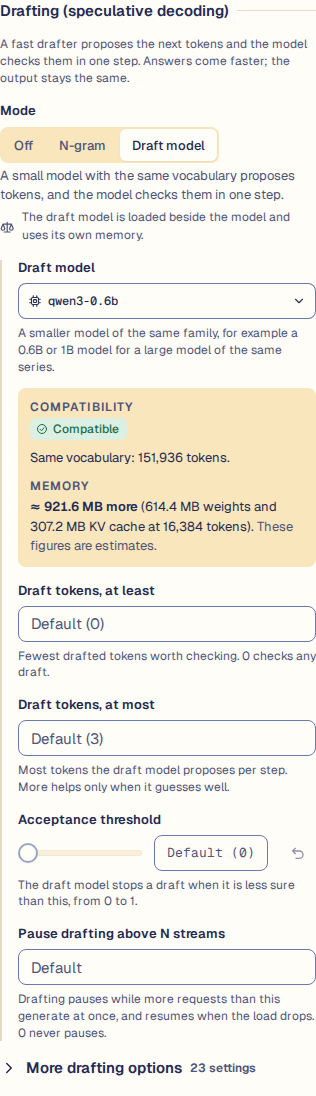
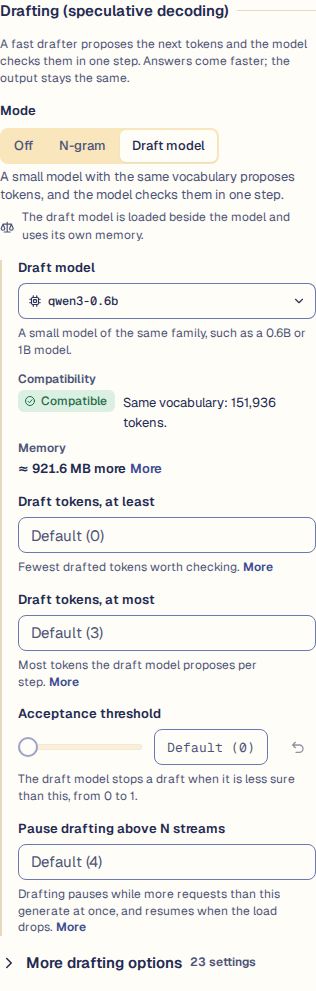
feat(ui): show one line per runtime hint and draft fact
With a draft model picked, the Drafting section showed an inset panel
with two headings and up to three sentences for the compatibility and
the memory, and each field had a two-sentence hint.

Each runtime tuning hint now shows its first sentence; "More" opens
the rest in place (a native disclosure). The compatibility and the
memory of a draft model are one line each: the chip and the first
sentence, and "≈ 922 MB more" with the weights and KV cache split
under "More". The draft model hint is one short sentence. Every locale
has the new words.

The sentence split does not cut at a decimal or an abbreviation and
handles CJK full stops; a unit test covers it.

Assisted-by: Claude:claude-sonnet-5-5 playwright

diff --git a/core/http/react-ui/src/components/models/engine/DraftingSection.jsx b/core/http/react-ui/src/components/models/engine/DraftingSection.jsx
@@ -10,6 +10,8 @@ import {
 } from '../../../utils/drafting'
 // eslint-disable-next-line no-unused-vars
 import EngineField from './EngineField'
+// eslint-disable-next-line no-unused-vars
+import MoreText from './MoreText'
 
 // The picker row of a draft file that is not an installed model.
 const FILE_ROW = '__file'
@@ -236,10 +238,10 @@ function DraftPicker({ t, engine, read, current, candidates, onPick, error, read
           describedBy="rt-draft-model-hint"
           testId="rt-draft-model"
         />
-        <p className="dk-hint rt-field__hint" id="rt-draft-model-hint">
+        <div className="dk-hint rt-field__hint" id="rt-draft-model-hint">
           <code className="rt-flag rt-flag--hint">draft_model</code>
-          <span>{t('engineSettings.drafting.picker.hint')}</span>
-        </p>
+          <MoreText text={t('engineSettings.drafting.picker.hint')} />
+        </div>
       </div>
 
       {candidates.status === 'error' && (
@@ -257,28 +259,32 @@ function DraftPicker({ t, engine, read, current, candidates, onPick, error, read
       {(current || unmatched) && (
         <dl className="rt-draft__facts" data-testid="rt-draft-facts">
           <div className="rt-draft__fact">
-            <dt className="dk-eyebrow">{t('engineSettings.drafting.fit.title')}</dt>
+            <dt>{t('engineSettings.drafting.fit.title')}</dt>
             <dd data-testid="rt-draft-fit">
-              {unmatched && <span className="text-note">{t('engineSettings.drafting.fit.unmatched')}</span>}
+              {unmatched && <MoreText text={t('engineSettings.drafting.fit.unmatched')} />}
               {estimating && !fit && <span className="text-note">{t('engineSettings.quick.estimating')}</span>}
               {fit && <FitWords t={t} fit={fit} />}
             </dd>
           </div>
           <div className="rt-draft__fact">
-            <dt className="dk-eyebrow">{t('engineSettings.drafting.memory.title')}</dt>
+            <dt>{t('engineSettings.drafting.memory.title')}</dt>
             <dd data-testid="rt-draft-memory">
-              {unmatched && <span className="text-note">{t('engineSettings.drafting.memory.unmatched')}</span>}
+              {unmatched && <MoreText text={t('engineSettings.drafting.memory.unmatched')} />}
               {estimating && !mem && <span className="text-note">{t('engineSettings.quick.estimating')}</span>}
               {mem && (
-                <span>
-                  <strong className="rt-draft__size">{t('engineSettings.drafting.memory.total', { size: mem.total })}</strong>
-                  {' '}
-                  {mem.weights && mem.kv && mem.context
-                    ? t('engineSettings.drafting.memory.split', { weights: mem.weights, kv: mem.kv, context: mem.context.toLocaleString() })
-                    : null}
-                  {' '}
-                  <span className="text-note">{mem.approximate ? t('engineSettings.quick.approximate') : t('engineSettings.quick.estimate')}</span>
-                </span>
+                <details className="rt-more rt-more--fold">
+                  <summary className="rt-more__summary">
+                    <strong className="rt-draft__size">{t('engineSettings.drafting.memory.total', { size: mem.total })}</strong>
+                    <span className="rt-more__mark">{t('engineSettings.more')}</span>
+                  </summary>
+                  <span className="rt-more__rest">
+                    {mem.weights && mem.kv && mem.context
+                      ? t('engineSettings.drafting.memory.split', { weights: mem.weights, kv: mem.kv, context: mem.context.toLocaleString() })
+                      : null}
+                    {' '}
+                    {mem.approximate ? t('engineSettings.quick.approximate') : t('engineSettings.quick.estimate')}
+                  </span>
+                </details>
               )}
               {current && !estimating && !mem && <span className="text-note">{t('engineSettings.drafting.memory.none')}</span>}
             </dd>
@@ -295,7 +301,7 @@ function FitWords({ t, fit }) {
     return (
       <span className="rt-draft__fit">
         <StatusChip tone="ok" testId="rt-draft-fit-chip">{t('engineSettings.drafting.fit.ok')}</StatusChip>
-        <span>{t('engineSettings.drafting.fit.okText', { tokens: fit.vocab.toLocaleString() })}</span>
+        <MoreText text={t('engineSettings.drafting.fit.okText', { tokens: fit.vocab.toLocaleString() })} />
       </span>
     )
   }
@@ -303,7 +309,7 @@ function FitWords({ t, fit }) {
     return (
       <span className="rt-draft__fit">
         <StatusChip tone="error" testId="rt-draft-fit-chip">{t('engineSettings.drafting.fit.mismatch')}</StatusChip>
-        <span>{t('engineSettings.drafting.fit.mismatchText', { main: fit.main.toLocaleString(), draft: fit.draft.toLocaleString() })}</span>
+        <MoreText text={t('engineSettings.drafting.fit.mismatchText', { main: fit.main.toLocaleString(), draft: fit.draft.toLocaleString() })} />
       </span>
     )
   }
@@ -311,7 +317,7 @@ function FitWords({ t, fit }) {
     return (
       <span className="rt-draft__fit">
         <StatusChip tone="idle" testId="rt-draft-fit-chip">{t('engineSettings.drafting.fit.family')}</StatusChip>
-        <span>{t('engineSettings.drafting.fit.familyText', { family: fit.architecture })}</span>
+        <MoreText text={t('engineSettings.drafting.fit.familyText', { family: fit.architecture })} />
       </span>
     )
   }

diff --git a/core/http/react-ui/src/components/models/engine/engine-settings.css b/core/http/react-ui/src/components/models/engine/engine-settings.css
@@ -173,6 +173,17 @@
   .rt-quick__row { grid-template-columns: minmax(0, 1fr); }
 }
 
+/* A text that shows its first sentence; the rest opens on a click. */
+.rt-more { min-width: 0; }
+.rt-more--fold > .rt-more__summary { display: inline; cursor: pointer; list-style: none; }
+.rt-more--fold > .rt-more__summary::-webkit-details-marker { display: none; }
+.rt-more__summary > * + * { margin-left: var(--dk-space-1); }
+.rt-more__mark { color: var(--dk-accent-text); font-weight: var(--dk-weight-semibold); white-space: nowrap; }
+.rt-more--fold[open] > .rt-more__summary .rt-more__mark { display: none; }
+.rt-more__summary:hover .rt-more__mark { text-decoration: underline; }
+.rt-more__rest::before { content: " "; }
+.rt-field__hint > .rt-more { flex: 1 1 100%; }
+
 /* A collapsed group: rarely used or risky settings behind a disclosure. */
 .rt-group--fold { padding-bottom: 0; }
 .rt-group__summary { display: flex; align-items: center; gap: var(--dk-space-2); cursor: pointer; list-style: none; }
@@ -194,11 +205,14 @@
 .rt-draft__note-icon { flex: none; align-self: center; color: var(--dk-muted); }
 .rt-draft__model { display: grid; gap: var(--dk-space-3); min-width: 0; }
 .rt-draft__model > .rt-field { max-width: 480px; }
-.rt-draft__facts { display: grid; gap: var(--dk-space-3); margin: 0; padding: var(--dk-space-3); border-radius: var(--dk-radius-2); background: var(--dk-inset); }
-.rt-draft__fact { display: grid; gap: var(--dk-space-1); }
+.rt-draft__facts { display: grid; gap: var(--dk-space-2); margin: 0; }
+/* One fact per line: a short label, then the value. */
+.rt-draft__fact { display: grid; grid-template-columns: 7rem minmax(0, 1fr); align-items: baseline; gap: var(--dk-space-3); }
+.rt-draft__fact dt { font-size: var(--dk-text-12); font-weight: var(--dk-weight-semibold); color: var(--dk-muted); }
 
 .rt-draft__fact dd { margin: 0; min-width: 0; overflow-wrap: anywhere; font-size: var(--dk-text-13); }
-.rt-draft__fit { display: inline-flex; flex-wrap: wrap; align-items: center; gap: var(--dk-space-2); }
+.rt-draft__fit { display: flex; flex-wrap: wrap; align-items: baseline; gap: var(--dk-space-2); min-width: 0; }
+.rt-draft__fit > .rt-more { flex: 1 1 12rem; min-width: 0; }
 .rt-draft__size { font-weight: var(--dk-weight-semibold); font-variant-numeric: tabular-nums; }
 .rt-draft__more { display: grid; gap: var(--dk-space-4); min-width: 0; }
 .rt-draft__more-summary { color: var(--dk-text); font-weight: var(--dk-weight-semibold); }
@@ -206,6 +220,7 @@
 .rt-draft__more-grid { padding-top: var(--dk-space-2); }
 
 @container (max-width: 560px) {
+  .rt-draft__fact { grid-template-columns: minmax(0, 1fr); gap: 2px; }
   .rt-draft__choice { grid-template-columns: minmax(0, 1fr); gap: var(--dk-space-2); }
   .rt-draft__choice .rt-quick__title { line-height: 1.3; }
   .rt-draft__panel { padding-left: var(--dk-space-4); border-left: 2px solid var(--dk-edge); }

diff --git a/core/http/react-ui/src/components/models/engine/EngineRuntimeSection.jsx b/core/http/react-ui/src/components/models/engine/EngineRuntimeSection.jsx
@@ -15,6 +15,8 @@ import {
 import EngineField from './EngineField'
 import { choiceWords, fieldLabel } from './labels'
 // eslint-disable-next-line no-unused-vars
+import MoreText from './MoreText'
+// eslint-disable-next-line no-unused-vars
 import TensorPlacement from './TensorPlacement'
 // eslint-disable-next-line no-unused-vars
 import RawOptions from './RawOptions'
@@ -231,13 +233,14 @@ export default function EngineRuntimeSection({ engine, model, values, onChange, 
                 {c.choices.map(ch => <option key={ch.value} value={ch.value}>{choiceLabel(t, c, ch.value)}</option>)}
               </select>
             </span>
-            <p className="dk-hint rt-field__hint" id={`${id}-hint`}>
+            <div className="dk-hint rt-field__hint" id={`${id}-hint`}>
               {c.flag && <code className="rt-flag rt-flag--hint">{c.flag}</code>}
-              <span>{t(`engineSettings.hints.${c.id}`, { defaultValue: c.doc })}</span>
+              <MoreText text={t(`engineSettings.hints.${c.id}`, { defaultValue: c.doc })} />
               {chosenDoc && (
-                <span data-testid={`${id}-choice-hint`}>{t(`engineSettings.choiceHints.${c.id}.${chosen}`, { defaultValue: chosenDoc })}</span>
+                <MoreText className="rt-field__choice-hint" testId={`${id}-choice-hint`}
+                  text={t(`engineSettings.choiceHints.${c.id}.${chosen}`, { defaultValue: chosenDoc })} />
               )}
-            </p>
+            </div>
           </div>
         )
       })}

diff --git a/core/http/react-ui/src/components/models/engine/MoreText.jsx b/core/http/react-ui/src/components/models/engine/MoreText.jsx
@@ -1,0 +1,24 @@
+import { useTranslation } from 'react-i18next'
+import { firstSentence } from './labels'
+
+// A text that shows its first sentence and keeps the rest one click away,
+// so a field or a fact reads as one line. The disclosure is the native
+// <details>: the first sentence is its summary.
+//
+//   text       the whole text
+//   className  of the outer element
+//   lead       optional node before the text (a chip, a figure)
+//   id, testId
+export default function MoreText({ text, className = '', lead = null, id, testId }) {
+  const { t } = useTranslation('modelEditor')
+  const [first, rest] = firstSentence(text)
+  if (!rest) {
+    return <span className={`rt-more ${className}`.trim()} id={id} data-testid={testId}>{lead}{first}</span>
+  }
+  return (
+    <details className={`rt-more rt-more--fold ${className}`.trim()} id={id} data-testid={testId}>
+      <summary className="rt-more__summary">{lead}<span>{first}</span><span className="rt-more__mark">{t('engineSettings.more')}</span></summary>
+      <span className="rt-more__rest">{rest}</span>
+    </details>
+  )
+}

diff --git a/core/http/react-ui/src/components/models/engine/EngineField.jsx b/core/http/react-ui/src/components/models/engine/EngineField.jsx
@@ -5,6 +5,8 @@ import { Segmented, Slider } from '../../ui'
 import Icon from '../../Icon'
 import { readItem, validate } from '../../../utils/engineSettings'
 import { choiceWords, fieldLabel } from './labels'
+// eslint-disable-next-line no-unused-vars
+import MoreText from './MoreText'
 
 const shown = (v) => (v === undefined || v === null ? '' : String(v))
 
@@ -62,10 +64,10 @@ export default function RuntimeField({ item, values, onWrite, onValidity, readOn
   const hintId = `${id}-hint`
   const errorId = `${id}-error`
   const hint = (
-    <p className="dk-hint rt-field__hint" id={hintId}>
+    <div className="dk-hint rt-field__hint" id={hintId}>
       {item.flag && <code className="rt-flag rt-flag--hint" data-testid={`${id}-flag`}>{item.flag}</code>}
-      {item.doc && <span>{item.doc}</span>}
-    </p>
+      {item.doc && <MoreText text={item.doc} />}
+    </div>
   )
   const describedBy = error ? `${hintId} ${errorId}` : hintId
 

diff --git a/core/http/react-ui/src/components/models/engine/labels.js b/core/http/react-ui/src/components/models/engine/labels.js
@@ -17,3 +17,19 @@ export function choiceWords(t, v) {
   if (v === 'auto') return t('engineSettings.auto')
   return String(v)
 }
+
+// A text cut after its first sentence: [lead, rest], rest '' when there is
+// one sentence. A sentence ends at ". ", "! " or "? " (so "0.6B" does not
+// cut), but not after an abbreviation such as "e.g.", or at "。".
+const ABBREV = /(?:^|\s)(?:e\.g|i\.e|etc|vs|approx)\.$/i
+export function firstSentence(text) {
+  const s = String(text ?? '').trim()
+  const re = /[.!?]\s+(?=\S)/g
+  let m
+  while ((m = re.exec(s))) {
+    const lead = s.slice(0, m.index + 1)
+    if (!ABBREV.test(lead)) return [lead, s.slice(re.lastIndex).trim()]
+  }
+  const cjk = s.match(/^(.*?[。！？])(.+)$/su)
+  return cjk ? [cjk[1], cjk[2].trim()] : [s, '']
+}

diff --git a/docs/content/models/engine-settings.md b/docs/content/models/engine-settings.md
@@ -276,8 +276,8 @@ the **Interactive** tab has a **Runtime tuning** section with the badge
   edit writes the main name in its place. A test reads the option names that
   `backend/cpp/llama-cpp/grpc-server.cpp` parses and fails when one has no
   field, so a new option is not missed. The full list with defaults is in
-  [Model configuration]({{%relref "/models/model-configuration" %}}). Each field shows the server's
-  description. Turn on **Show llama.cpp flags** in the section head to see the
+  [Model configuration]({{%relref "/models/model-configuration" %}}). Each field shows the first
+  sentence of the server's description; **More** shows the rest. Turn on **Show llama.cpp flags** in the section head to see the
   `llama-server` flag of each field; the browser keeps the choice. An empty field, or **Default**, keeps the
   setting out of the file. A value that does not fit the type or the range is
   marked, and **Save** stays off until you correct it.
